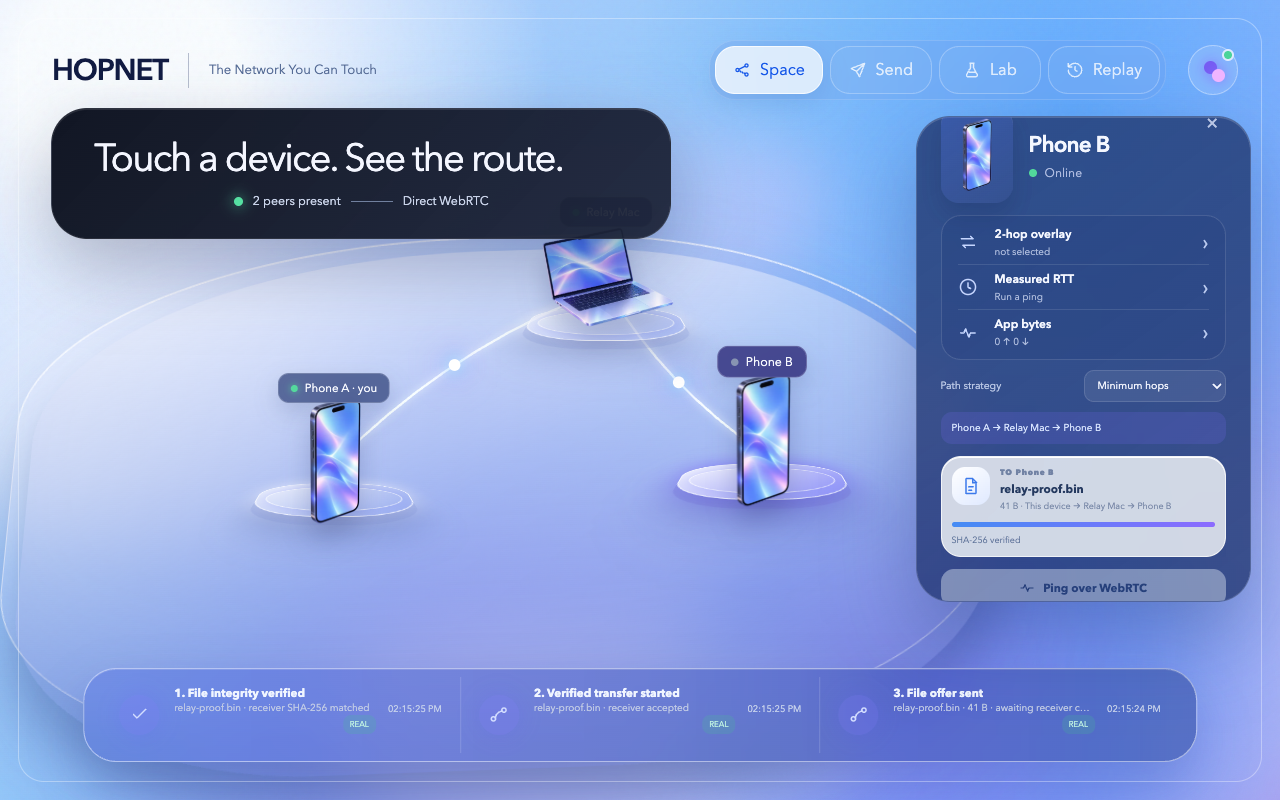
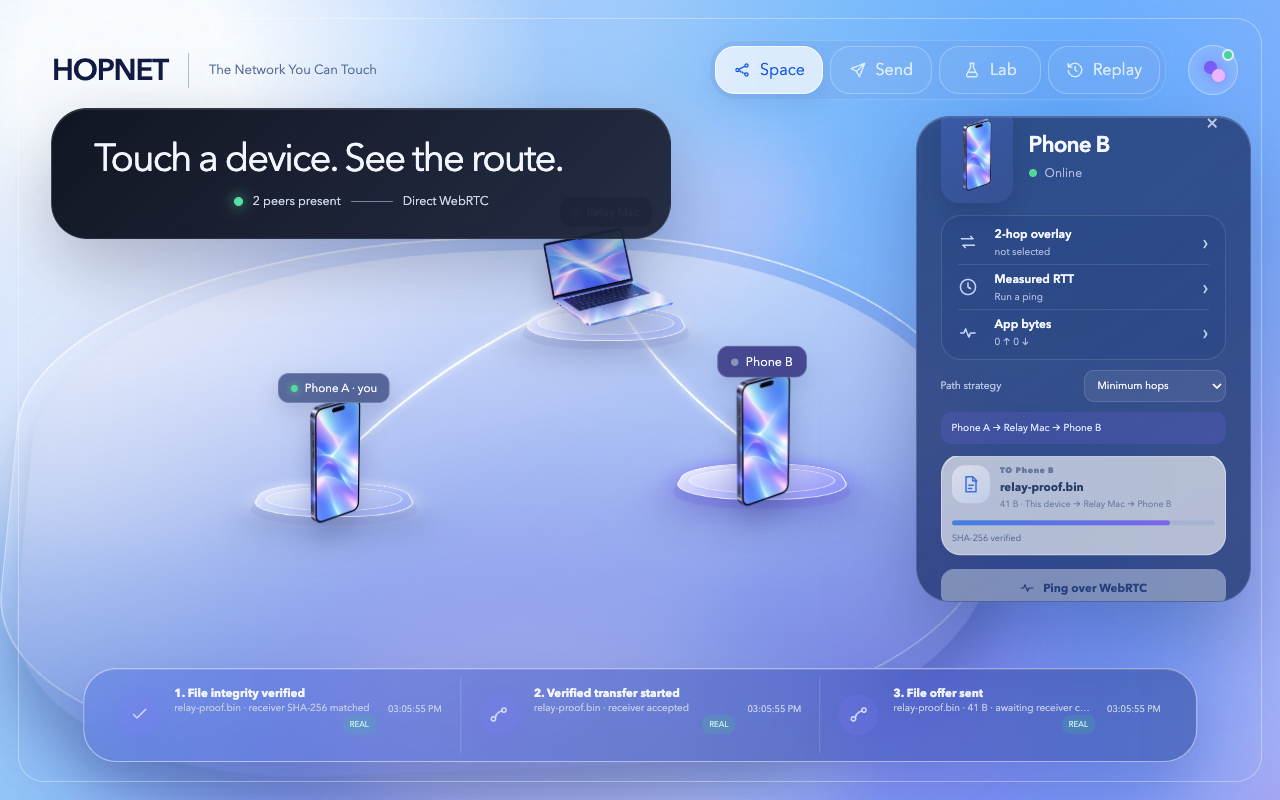
perf(transfer): bound multipath chunk windows

Changed region(s): [[0.7188, 0.5625, 0.9688, 0.7188]]

diff --git a/packages/transfer/src/index.ts b/packages/transfer/src/index.ts
@@ -1,5 +1,6 @@
-export const DEFAULT_CHUNK_BYTES = 12 * 1024;
+export const DEFAULT_CHUNK_BYTES = 32 * 1024;
 export const MAX_FILE_BYTES = 32 * 1024 * 1024;
+export const MAX_CHUNK_BYTES = 32 * 1024;
 export const MAX_CHUNKS = Math.ceil(MAX_FILE_BYTES / DEFAULT_CHUNK_BYTES);
 
 export type TransferManifest = {
@@ -20,7 +21,7 @@ export async function sha256(bytes: Uint8Array): Promise<string> {
 }
 
 export function splitBytes(bytes: Uint8Array, chunkSize = DEFAULT_CHUNK_BYTES): Uint8Array[] {
-  if (!Number.isInteger(chunkSize) || chunkSize < 1 || chunkSize > 16 * 1024) throw new Error("Chunk size must be between 1 and 16384 bytes.");
+  if (!Number.isInteger(chunkSize) || chunkSize < 1 || chunkSize > MAX_CHUNK_BYTES) throw new Error(`Chunk size must be between 1 and ${MAX_CHUNK_BYTES} bytes.`);
   const chunks: Uint8Array[] = [];
   for (let offset = 0; offset < bytes.byteLength; offset += chunkSize) chunks.push(bytes.slice(offset, Math.min(bytes.byteLength, offset + chunkSize)));
   return chunks;
@@ -51,7 +52,7 @@ export class TransferAssembler {
 
   constructor(readonly manifest: TransferManifest) {
     if (manifest.size < 1 || manifest.size > MAX_FILE_BYTES) throw new Error("Manifest file size is outside the accepted limit.");
-    if (!Number.isInteger(manifest.chunkSize) || manifest.chunkSize < 1 || manifest.chunkSize > 16 * 1024) throw new Error("Manifest chunk size is outside the accepted limit.");
+    if (!Number.isInteger(manifest.chunkSize) || manifest.chunkSize < 1 || manifest.chunkSize > MAX_CHUNK_BYTES) throw new Error("Manifest chunk size is outside the accepted limit.");
     if (manifest.chunkCount !== Math.ceil(manifest.size / manifest.chunkSize)) throw new Error("Manifest chunk count does not match the file size.");
     if (manifest.chunkCount < 1 || manifest.chunkCount > MAX_CHUNKS || manifest.chunkHashes.length !== manifest.chunkCount) throw new Error("Manifest chunk metadata is invalid.");
     if (!/^[0-9a-f]{64}$/.test(manifest.fileHash) || manifest.chunkHashes.some((hash) => !/^[0-9a-f]{64}$/.test(hash))) throw new Error("Manifest contains an invalid SHA-256 hash.");

diff --git a/packages/protocol/src/index.ts b/packages/protocol/src/index.ts
@@ -150,10 +150,10 @@ export const dataPacketSchema = z.discriminatedUnion("kind", [
       name: z.string().min(1).max(180),
       mime: z.string().max(120),
       size: z.number().int().min(1).max(32 * 1024 * 1024),
-      chunkSize: z.number().int().min(1).max(16 * 1024),
-      chunkCount: z.number().int().min(1).max(2_731),
+      chunkSize: z.number().int().min(1).max(32 * 1024),
+      chunkCount: z.number().int().min(1).max(1_024),
       fileHash: sha256Schema,
-      chunkHashes: z.array(sha256Schema).min(1).max(2_731),
+      chunkHashes: z.array(sha256Schema).min(1).max(1_024),
     }),
   }),
   z.object({
@@ -183,10 +183,10 @@ export const dataPacketSchema = z.discriminatedUnion("kind", [
     hopIndex: z.number().int().min(1).max(7),
     ttl: z.number().int().min(1).max(16),
     createdAt: z.number().finite(),
-    chunkIndex: z.number().int().min(0).max(2_730),
-    byteLength: z.number().int().min(1).max(16 * 1024),
+    chunkIndex: z.number().int().min(0).max(1_023),
+    byteLength: z.number().int().min(1).max(32 * 1024),
     chunkHash: sha256Schema,
-    bytes: z.string().min(1).max(22_000),
+    bytes: z.string().min(1).max(44_000),
   }),
   z.object({
     protocolVersion: z.literal(PROTOCOL_VERSION),
@@ -200,7 +200,7 @@ export const dataPacketSchema = z.discriminatedUnion("kind", [
     hopIndex: z.number().int().min(1).max(7),
     ttl: z.number().int().min(1).max(16),
     createdAt: z.number().finite(),
-    chunkIndex: z.number().int().min(0).max(2_730),
+    chunkIndex: z.number().int().min(0).max(1_023),
     receivedAt: z.number().finite(),
   }),
   z.object({

diff --git a/apps/web/src/lib/transfer-manager.ts b/apps/web/src/lib/transfer-manager.ts
@@ -52,6 +52,7 @@ type Dependencies = {
 
 const RETRY_AFTER_MS = 1_400;
 const MAX_ATTEMPTS = 8;
+const MAX_IN_FLIGHT_CHUNKS = 8;
 const TRANSFER_TIMEOUT_MS = 90_000;
 
 export class TransferManager {
@@ -259,7 +260,13 @@ export class TransferManager {
           await delay(250);
           continue;
         }
-        const due = transfer.chunks.map((_, index) => index).filter((index) => !transfer.acknowledged.has(index) && Date.now() - (transfer.sentAt.get(index) ?? 0) >= RETRY_AFTER_MS).slice(0, 8);
+        const now = Date.now();
+        const inFlight = transfer.chunks.reduce((count, _, index) => {
+          const sentAt = transfer.sentAt.get(index);
+          return count + Number(!transfer.acknowledged.has(index) && (transfer.attempts.get(index) ?? 0) > 0 && sentAt !== undefined && now - sentAt < RETRY_AFTER_MS);
+        }, 0);
+        const availableSlots = Math.max(0, MAX_IN_FLIGHT_CHUNKS - inFlight);
+        const due = transfer.chunks.map((_, index) => index).filter((index) => !transfer.acknowledged.has(index) && now - (transfer.sentAt.get(index) ?? 0) >= RETRY_AFTER_MS).slice(0, availableSlots);
         if (!due.length) { await delay(100); continue; }
         for (const index of due) {
           const attempts = (transfer.attempts.get(index) ?? 0) + 1;

diff --git a/packages/protocol/test/protocol.test.ts b/packages/protocol/test/protocol.test.ts
@@ -50,7 +50,9 @@ test("validates transfer chunk size, hash, and bounded encoding fields", () => {
     bytes: "YWJj",
   };
   assert.equal(dataPacketSchema.safeParse(valid).success, true);
-  assert.equal(dataPacketSchema.safeParse({ ...valid, bytes: "x".repeat(22_001) }).success, false);
+  assert.equal(dataPacketSchema.safeParse({ ...valid, byteLength: 32 * 1024, bytes: "x".repeat(43_692) }).success, true);
+  assert.equal(dataPacketSchema.safeParse({ ...valid, byteLength: 32 * 1024 + 1 }).success, false);
+  assert.equal(dataPacketSchema.safeParse({ ...valid, bytes: "x".repeat(44_001) }).success, false);
   assert.equal(dataPacketSchema.safeParse({ ...valid, chunkHash: "nope" }).success, false);
 });
 

diff --git a/tests/e2e/phase0.spec.ts b/tests/e2e/phase0.spec.ts
@@ -98,7 +98,6 @@ test("routes a message through a real intermediate browser without an endpoint c
 
   await context.close();
 });
-
 test("sends a consented file over a direct WebRTC data channel and verifies its digest", async ({ browser }) => {
   test.setTimeout(45_000);
   const context = await browser.newContext({ viewport: { width: 1280, height: 800 }, acceptDownloads: true });

diff --git a/docs/HOPNET_ARCHITECTURE.md b/docs/HOPNET_ARCHITECTURE.md
@@ -18,7 +18,7 @@ The coordinator is the control plane: room membership, host admission, presence,
 - `apps/coordinator`: in-memory short-lived rooms, authorization, QR invitations, signaling, presence and bounded fallback messages.
 - `apps/web`: room entry, host admission, live peer space, perfect-negotiation WebRTC manager, RTC ping/echo and truthful diagnostics.
 - `packages/routing`: validated undirected overlay graphs, BFS, weighted Dijkstra, adaptive edge cost and node-disjoint path selection.
-- `packages/transfer`: bounded manifests, 12 KB chunking, backpressure, per-chunk and whole-file SHA-256, receiver consent and receipts, retry scheduling across currently measured paths.
+- `packages/transfer`: bounded manifests, 32 KiB chunking, backpressure, per-chunk and whole-file SHA-256, receiver consent and receipts, retry scheduling across currently measured paths.
 
 ## LAN origin selection
 
@@ -28,7 +28,7 @@ The coordinator discovers non-loopback IPv4 interfaces, ranks ordinary private W
 
 ## File transfer path
 
-The sender hashes the complete file and each 12 KB chunk before offering a bounded manifest. The destination must accept before chunks are scheduled. Chunks use reliable ordered RTCDataChannels hop by hop; intermediates validate the declared path and permitted next edge, then forward the envelope. The destination verifies each chunk before acknowledging it, reassembles only after every chunk arrives, and verifies the whole-file digest before making a download available. It returns the verified digest and byte count over the reverse route. The sender displays completion only when that receiver receipt matches its original manifest. Missing acknowledgements are retried on currently measured routes; interrupted physical-link recovery still requires hardware validation.
+The sender hashes the complete file and each 32 KiB chunk before offering a bounded manifest. The destination must accept before chunks are scheduled. Chunks use reliable ordered RTCDataChannels hop by hop; intermediates validate the declared path and permitted next edge, then forward the envelope. The destination verifies each chunk before acknowledging it, reassembles only after every chunk arrives, and verifies the whole-file digest before making a download available. It returns the verified digest and byte count over the reverse route. The sender displays completion only when that receiver receipt matches its original manifest. Missing acknowledgements are retried on currently measured routes; interrupted physical-link recovery still requires hardware validation.
 
 Room state is intentionally ephemeral in Phase 0. Private payloads are not stored or silently uploaded. The coordinator binds to the LAN only when the operator starts it.
 

diff --git a/docs/PROGRESS_HANDOFF.md b/docs/PROGRESS_HANDOFF.md
@@ -12,6 +12,7 @@
 - 23 unit/integration tests pass, including LAN-origin allow-listing, admission authorization, packet bounds, transfer chunk and whole-file hashing, three routing strategies, and disjoint-path selection.
 - Production Vite build passes.
 - Three Playwright flows pass in Chrome: admitted two-browser direct WebRTC messaging/acknowledgement, three-browser application relay with a receiver receipt, and both direct and three-browser relayed accepted file transfers with receiver verified SHA-256 completion.
+- File chunks are 32 KiB with an eight-chunk in-flight ceiling, receiver acknowledgements, and re-selection from currently measured paths after missed acknowledgements. Direct and relayed browser transfers pass after this tuning.
 - The invitation regression verifies that the QR advertises a non-loopback coordinator interface even when Playwright opens the host at `127.0.0.1`.
 
 ## Physical status
@@ -20,4 +21,4 @@
 
 ## Next ordered slice
 
-Extend transfer recovery tests with two disjoint live data paths, missing-chunk injection, and relay disconnection; then complete the controlled laboratory, event replay, measurement export, reproducible paper, and five-device physical demonstration.
+The next automated gate is a stable fault-injection E2E proving that a multipath transfer still reaches receiver-verified SHA-256 after a relay disconnect. An exploratory browser run showed relay degradation, retry events, and a receiver-verified result in captured browser state, but the test itself timed out; it does not count as a pass. Then complete the controlled laboratory, event replay, measurement export, reproducible paper, and five-device physical demonstration.

diff --git a/docs/PROTOCOL.md b/docs/PROTOCOL.md
@@ -26,7 +26,7 @@ The central coordinator carries signaling and topology state only. Routed payloa
 
 ## File transfer limits and integrity
 
-The protocol caps file size at 32 MiB, chunk payloads at 16 KiB before encoding, and path length at 8 peers. The current sender uses 12 KiB chunks to keep the complete JSON/base64 packet comfortably below RTCDataChannel limits. Chunks are individually SHA-256 checked before receiver acknowledgement; final assembly must match the manifest hash before a download URL or verified completion is emitted. Integrity relies on browser Web Crypto and therefore requires a secure context on the physical device.
+The protocol caps file size at 32 MiB, chunk payloads at 32 KiB before encoding, and path length at 8 peers. The current sender uses 32 KiB chunks, encoded within a 44 KB schema bound, to reduce per-chunk verification and forwarding overhead while staying within conservative RTCDataChannel message limits. Chunks are individually SHA-256 checked before receiver acknowledgement; final assembly must match the manifest hash before a download URL or verified completion is emitted. Integrity relies on browser Web Crypto and therefore requires a secure context on the physical device.
 
 ## Security properties
 
